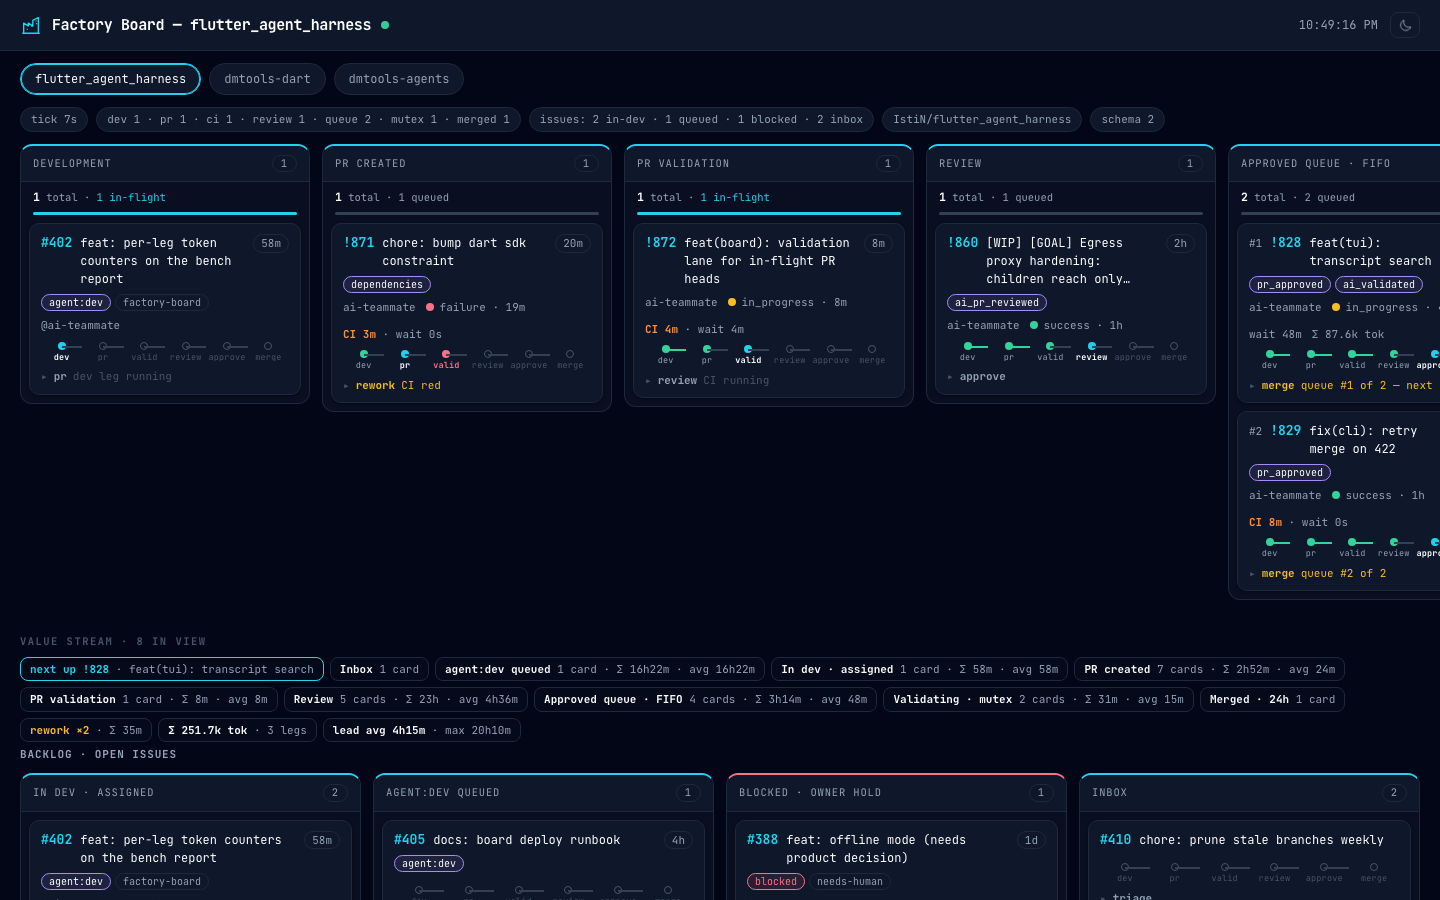
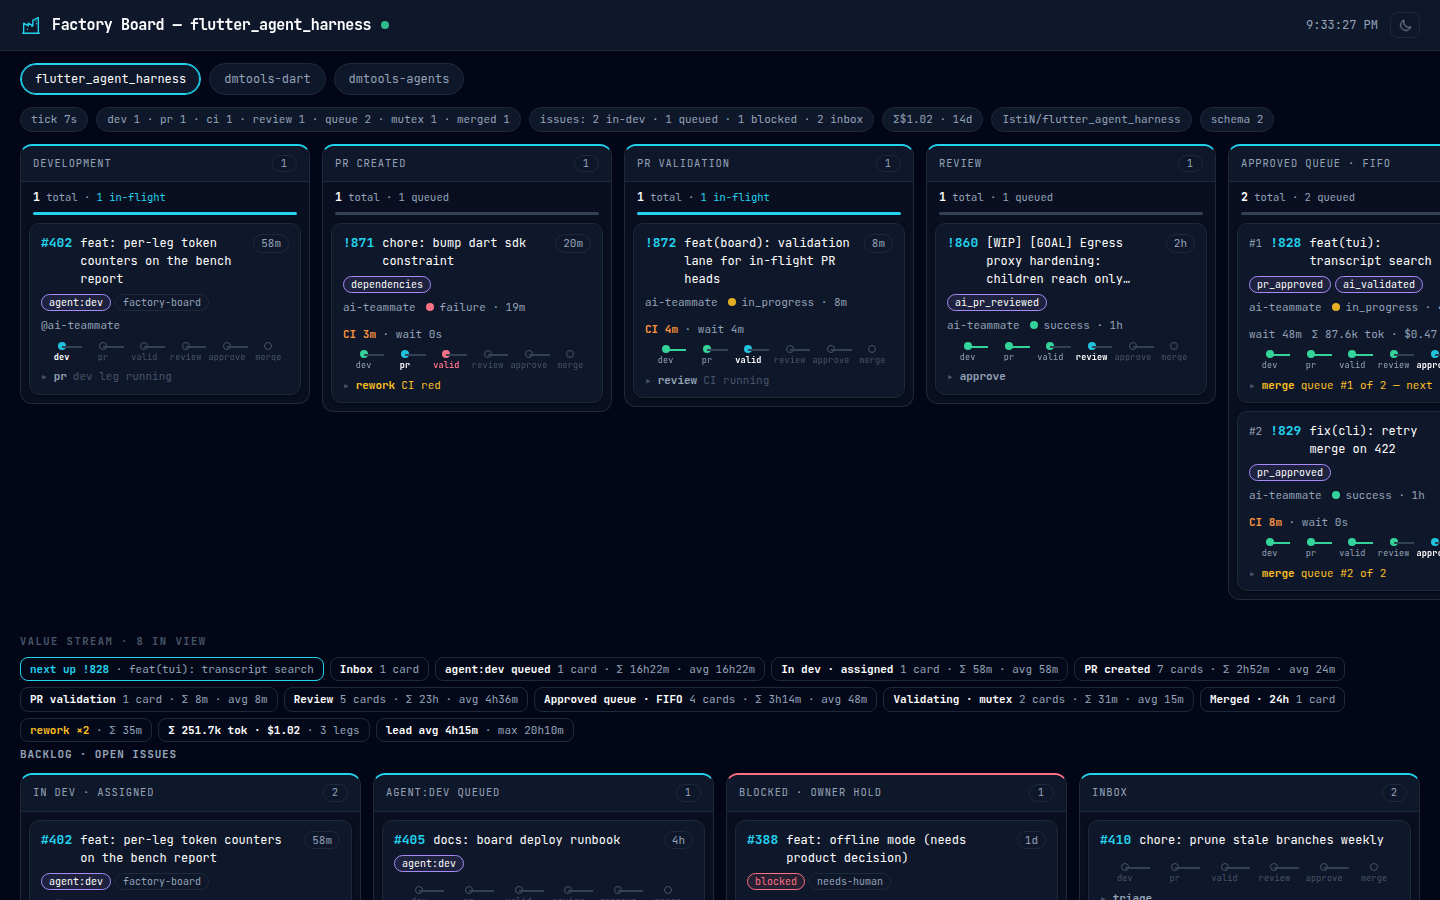
gh-825 WIP auto-save 2026-10-09T21-34-42

diff --git a/site/factory/app.js b/site/factory/app.js
@@ -48,6 +48,14 @@
  *    time (flow.js phaseRail);
  *  - rework + token analytics: per-card rework ×N · time, Σ token chip on
  *    cards, and a board-level value-stream strip (flow.js flowSummary).
+ *
+ * gh-825 (model + $cost): the tick prices each token row against the
+ * hardcoded data/model-pricing.json table (rates USD/Mtok; unknown/absent
+ * model ⇒ cost omitted, tokens still shown). The board only sums: per-leg
+ * rows render model + $ (drawer token table), cards gain Σ$ on the token
+ * chip and the drawer total row, the flow-strip chip gains the board Σ$,
+ * and the header gains the tick-published global Σ$ pill (st.costs — all
+ * cards, 14d window; hidden when the snapshot carries no costs).
  */
 (function () {
   'use strict';
@@ -513,7 +521,9 @@
         esc(Object.keys(s.tokens.legs).map(function (k) {
           return k + ' ' + fmtK(s.tokens.legs[k].total);
         }).join(', ')) +
-        '"><b>&Sigma; ' + esc(fmtK(s.tokens.total)) + ' tok</b> · ' +
+        '"><b>&Sigma; ' + esc(fmtK(s.tokens.total)) + ' tok' +
+        (s.tokens.cost != null ? ' · ' + esc(fmtUsd(s.tokens.cost)) : '') +
+        '</b> · ' +
         Object.keys(s.tokens.legs).length + ' legs</span>');
     }
     if (s.lead && s.lead.avgMs != null) {
@@ -625,7 +635,9 @@
       var legs = Object.keys(t.legs).map(function (k) {
         return esc(k) + ' ' + esc(fmtK(t.legs[k].total));
       }).join(', ');
-      rows.push(['tokens', '<b>&Sigma; ' + esc(fmtK(t.total)) + '</b> — ' + legs]);
+      rows.push(['tokens', '<b>&Sigma; ' + esc(fmtK(t.total)) + '</b>' +
+        (t.cost != null ? ' · <b>' + esc(fmtUsd(t.cost)) + '</b>' : '') +
+        ' — ' + legs]);
     }
     if (!rows.length) return '';
     var body = rows.map(function (r) {
@@ -641,25 +653,34 @@
     if (!rows.length) {
       body = '<p class="drawer-empty">tokens — not reported by this factory</p>';
     } else {
-      var tot = { prompt: 0, completion: 0, total: 0 };
+      var tot = { prompt: 0, completion: 0, total: 0, cost: null };
       var trs = rows.map(function (t) {
         tot.prompt += t.prompt || 0;
         tot.completion += t.completion || 0;
         tot.total += t.total || 0;
+        if (t.cost != null) tot.cost = (tot.cost || 0) + t.cost;
+        // gh-825: model + $ per leg — unknown/absent model renders '—' and
+        // no $ (tokens only, AC2); model ids are report input → esc()
         return '<tr><td>' + esc(t.leg || '—') + '</td>' +
+          '<td>' + (t.model ? esc(t.model) : '—') + '</td>' +
           '<td>' + (t.at ? esc(ago(t.at)) : '—') + '</td>' +
           '<td class="num">' + (t.prompt || 0).toLocaleString() + '</td>' +
           '<td class="num">' + (t.completion || 0).toLocaleString() + '</td>' +
-          '<td class="num"><b>' + (t.total || 0).toLocaleString() + '</b></td></tr>';
+          '<td class="num"><b>' + (t.total || 0).toLocaleString() + '</b></td>' +
+          '<td class="num">' + (t.cost != null ? esc(fmtUsd(t.cost)) : '—') +
+          '</td></tr>';
       }).join('');
       body = '<table class="tok-table"><thead><tr>' +
-        '<th>leg</th><th>when</th><th class="num">prompt</th>' +
+        '<th>leg</th><th>model</th><th>when</th><th class="num">prompt</th>' +
         '<th class="num">completion</th><th class="num">total</th>' +
+        '<th class="num">$</th>' +
         '</tr></thead><tbody>' + trs +
-        '<tr class="tok-total"><td>total</td><td></td>' +
+        '<tr class="tok-total"><td>total</td><td></td><td></td>' +
         '<td class="num">' + tot.prompt.toLocaleString() + '</td>' +
         '<td class="num">' + tot.completion.toLocaleString() + '</td>' +
-        '<td class="num"><b>' + tot.total.toLocaleString() + '</b></td></tr>' +
+        '<td class="num"><b>' + tot.total.toLocaleString() + '</b></td>' +
+        '<td class="num"><b>' + (tot.cost != null ? esc(fmtUsd(tot.cost)) : '—') +
+        '</b></td></tr>' +
         '</tbody></table>';
     }
     return '<section class="drawer-sec"><h3>Token spend</h3>' + body +
@@ -764,6 +785,25 @@
       pill.textContent = 'issues: ' + backlogSummary;
     } else {
       pill.hidden = true;
+    }
+    // gh-825: the header's global Σ$ — the tick prices the WHOLE tokens
+    // ledger (closed cards leave the board after 24h; their spend must
+    // still count) and publishes the 14d rollup in st.costs. No pricing
+    // (off/bad/nothing priced) → hidden pill, never a lying $0.00. The
+    // cache-drift stub mirrors flowEl: a stale index.html without the
+    // pill must degrade, not throw on first paint.
+    var costPill = document.getElementById('cost-pill') || { hidden: true };
+    if (st.costs && st.costs.usd14d != null) {
+      costPill.hidden = false;
+      // fmtUsd already carries the $ — 'Σ' + '$1.02' reads as the ticket's Σ$
+      costPill.textContent = 'Σ' + fmtUsd(st.costs.usd14d) +
+        ' · ' + (st.costs.windowDays || 14) + 'd';
+      costPill.title = 'model spend across all cards, ' +
+        (st.costs.windowDays || 14) + '-day window' +
+        (st.costs.pricedLegs != null
+          ? ' — ' + st.costs.pricedLegs + ' priced legs' : '');
+    } else {
+      costPill.hidden = true;
     }
     document.getElementById('repo-pill').textContent = st.repo || '';
     document.getElementById('schema-pill').textContent =

diff --git a/js/unit-tests/test_smAgent.js b/js/unit-tests/test_smAgent.js
@@ -8996,8 +8996,13 @@ suite('smAgent: statePublish tokens — local file first, branch fallback', func
     });
 
     test('gh-825: pricing file absent → quiet (no warn, no Σ$), exactly pre-gh-825', function() {
+        var fileMap = {};
+        // pin the pricing path to null — the mock forwards un-mapped paths
+        // to the REAL file_read, and this repo SHIPS the file (a repo-root
+        // read would silently flip this test once it lands)
+        fileMap[PRICING_PATH] = null;
         var run = publishTick({
-            fileMap: {},
+            fileMap: fileMap,
             captureConsole: true,
             github: { prList: PR31 },
             onCliExecute: branchServes(MODEL_TOKENS)

diff --git a/site/factory/index.html b/site/factory/index.html
@@ -90,6 +90,7 @@
       <span class="pill" id="tick-pill">tick: —</span>
       <span class="pill" id="counts-pill"></span>
       <span class="pill" id="backlog-pill"></span>
+      <span class="pill" id="cost-pill" hidden title="model spend (14d)"></span>
       <span class="pill" id="repo-pill"></span>
       <span class="pill" id="schema-pill">schema 2</span>
     </section>

diff --git a/site/factory/README.md b/site/factory/README.md
@@ -154,7 +154,8 @@ their development-lane twin, so the drawer tells the same story from both.
 
 ```json
 "tokens": [ { "leg": "story_development", "at": "...", "prompt": 48210,
-              "completion": 12980, "total": 61190 } ]
+              "completion": 12980, "total": 61190,
+              "model": "claude-sonnet-4-5", "cost": 0.33933 } ]
 ```
 
 Keyed `pr-N` / `issue-N` in the builder's `tokens` input. Factories whose
@@ -166,6 +167,63 @@ Factories that don't report tokens yet publish token-less cards and the
 drawer renders `tokens — not reported by this factory`. The schema never
 requires the key.
 
+## gh-825 — model + $cost (additive, schema stays 2)
+
+Each token row may carry `model` (explicit passthrough of the upstream
+ledger field — awf 233263e emits it, empty until fa#1460 ships the field)
+and `cost` — the row's price, computed by the TICK against a hardcoded
+pricing table. The board never prices, it only sums.
+
+### The pricing config (ONE home: `data/model-pricing.json`)
+
+Committed at the repo root, hand-maintained, no secrets, no live price
+APIs. The `statePublish.pricingFile` knob repoints the tick at another
+path (packed / multi-repo deployments). Schema:
+
+```json
+{
+  "<model-id>": { "input": <USD/Mtok>, "output": <USD/Mtok>,
+                   "cacheRead": <USD/Mtok> },
+  "default": null
+}
+```
+
+- rates are USD per **million** tokens (list prices — update by hand when
+  vendors reprice; `cacheRead` is optional and defaults to 0);
+- `"default"` prices models missing from the table; `null` (or a missing
+  key) keeps unknown models unpriced;
+- the cost rule, per row:
+  `cost = input/1e6*prompt + output/1e6*completion + cacheRead/1e6*cacheRead`;
+- **tolerance (AC1)**: an absent file is a quiet miss; a present-but-
+  malformed file makes the tick log
+  `⚠ model pricing ignored (…) — cards render tokens only` and publish
+  without `$` — pricing is decorative, the tick never fails over it. One
+  invalid rate entry is skipped, valid entries survive;
+- **unknown/absent model (AC2)**: the row keeps its `model` and renders
+  tokens only — no invented price, per row or in any Σ$.
+
+### What the tick publishes
+
+- per-row: `model` (always) + `cost` (when priced);
+- `state.costs` — the board header's global rollup:
+  `{ "usd14d": <Σ$ across ALL ledger keys within the 14-day window>,
+     "pricedLegs": <rows counted>, "windowDays": 14 }`. The window applies
+  to row `at` over the WHOLE tokens ledger (closed cards leave the board
+  after 24h — their spend must still count). Absent when pricing is off,
+  malformed, or nothing priced (pre-fa#1460 factories never render a lying
+  `$0.00`). The tick log names the state on one grep-able line:
+  `💲 pricing: 3 models · Σ$12.34 (14d)` (or `off — tokens only`).
+
+### Board surfaces
+
+- **Token chip** (cards): `Σ 87.6k tok · $0.92` — the Σ$ rides only when a
+  row is priced.
+- **Drawer token table**: `leg · model · when · prompt · completion ·
+  total · $` per row, with the card's Σ$ on the total row; unknown/absent
+  models render `—` and no `$`.
+- **Value-stream strip**: the Σ-token chip gains the board Σ$.
+- **Header pill**: `Σ$ 12.34 · 14d` (hidden when `state.costs` is absent).
+
 ### Board surfaces
 
 - **Lane summaries** — `N total · M done · K in-flight · Q queued` (+
@@ -176,9 +234,9 @@ requires the key.
 - **Details drawer** — click any PR/issue card: header (number, title,
   head sha, current state, labels, `open on github ↗` in a new tab), the
   state history newest-first with per-state timings (`2h13m` style) and
-  proportional duration bars, then the token table (leg · when · prompt ·
-  completion · total) with a per-card total. `esc`, the backdrop or ✕
-  closes it; `?drawer=pr-817@validating` deep-links it.
+  proportional duration bars, then the token table (leg · model · when ·
+  prompt · completion · total · $) with a per-card total. `esc`, the
+  backdrop or ✕ closes it; `?drawer=pr-817@validating` deep-links it.
 - **Backlog section** — the four buckets render as columns under the PR
   pipeline; blocked is red-bordered. Same card interactions as the lanes.
 
